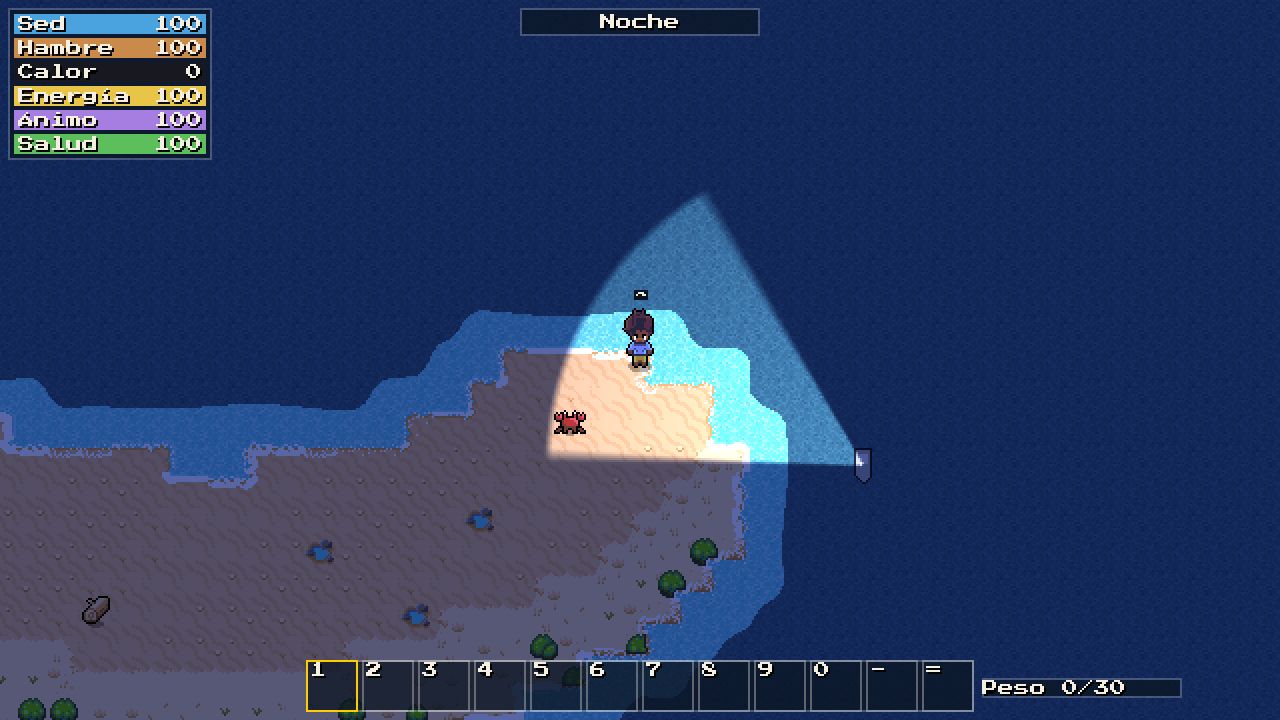
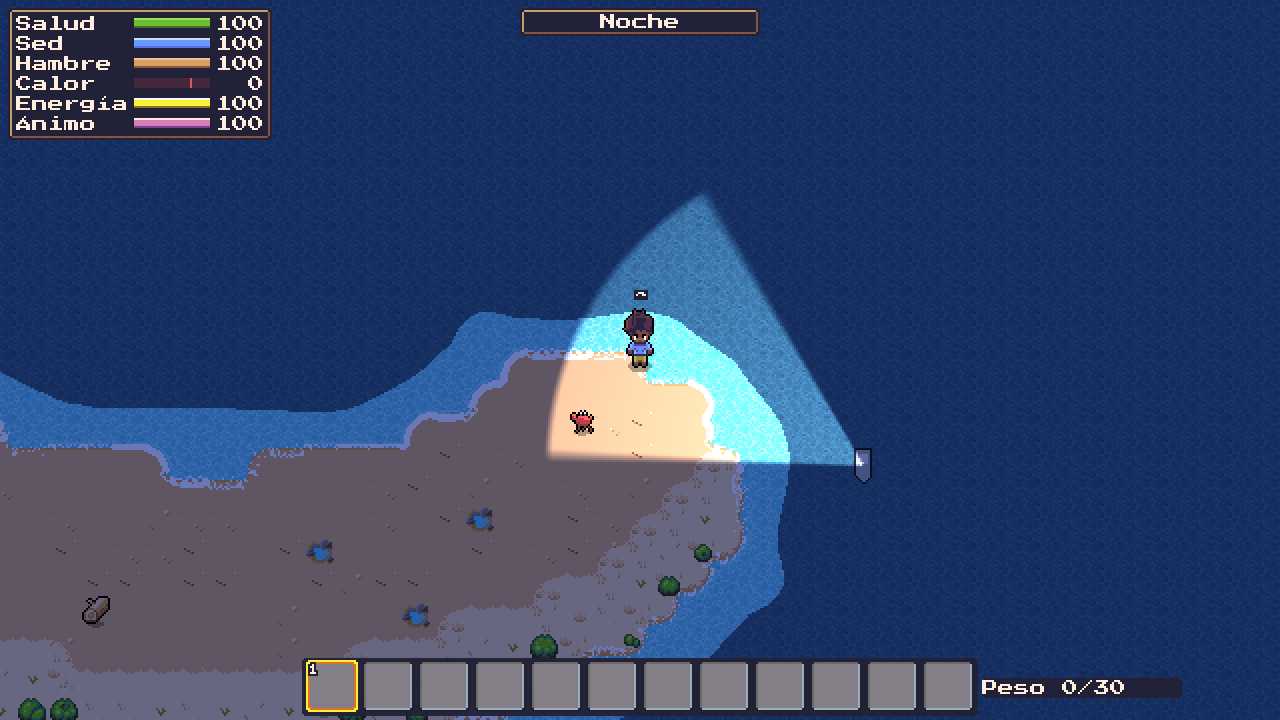
feat(art-mood-pass): a readable night and dusk (C33a)
Night was one flat multiply (luminance 0.41) and dusk turned the
shallows teal. day_cycle.tres: dusk (0.90, 0.70, 0.60) -> (0.95, 0.78,
0.74), night (0.35, 0.40, 0.65) -> (0.42, 0.47, 0.72). The pins are
properties, since the tints are provisional data (GAME_DESIGN 5): at dusk
the deep and shallows ramp bases keep blue above green, and the night
tint's luminance is 0.44-0.52 (now 0.477). The searchlight still reads on
the brighter night; its stealth capture is re-shot.

diff --git a/openspec/changes/art-mood-pass/tasks.md b/openspec/changes/art-mood-pass/tasks.md
@@ -21,7 +21,7 @@ A group that touches `tools/art/` also runs `python -m unittest` in `tools/art` 
 
 ## 0. Gate
 
-- [ ] 0.1 Wait until art-coast-pass (art wave 1) has merged into `main` and the coordinating session says go. Branch from `main`.
+- [x] 0.1 Wait until art-coast-pass (art wave 1) has merged into `main` and the coordinating session says go. Branch from `main`.
   - Re-read the merged `world_sea.gdshader`, `shore.gdshader`, `sea_mask.gd` and `SeaShaderChecks`.
   - Re-sync this change's MODIFIED "Scrolling sea" block with the archived art-pass spec. If art-coast-pass is not archived yet, sync with its delta.
 - [ ] 0.2 Groups 1 to 4 need only art-coast-pass. Group 5 waits until crossing-gameplay has merged. Before group 5, re-read its `crossing_hazards.gd`, `crossing.tscn` and how it exposes the vessel's lateral position.
@@ -32,12 +32,12 @@ A group that touches `tools/art/` also runs `python -m unittest` in `tools/art` 
 
 ## 1. C33a: a readable night and dusk (data)
 
-- [ ] 1.1 In `test_day_night_tint.gd`, write the property tests and see them fail on today's `day_cycle.tres`:
+- [x] 1.1 In `test_day_night_tint.gd`, write the property tests and see them fail on today's `day_cycle.tres`:
   - the dusk tint times the deep and the shallows ramp bases, read from `ArtTuning.sea_ramps`, gives blue above green;
   - the night tint's `get_luminance()` is between 0.44 and 0.52.
   The existing `test_the_tint_node_takes_night_times_calm` is the 1-player case and must stay green.
-- [ ] 1.2 Set `day_cycle.tres` phase 2 to about (0.95, 0.78, 0.74) and phase 3 to about (0.42, 0.47, 0.72). Verify that the new tests, `test_world_sky.gd`, `test_weather_content.gd` and `test_searchlight.gd` pass.
-- [ ] 1.3 Windowed 1-player capture: the solo sandbar at dusk and at night with the patrol beam. Compare with the review's `before/sandbar_dusk_west_shore.png` and `docs/guardacostas-stealth/sandbar_night_beam.png`. Tune the two tints if needed and record the values in design.md Build notes.
+- [x] 1.2 Set `day_cycle.tres` phase 2 to about (0.95, 0.78, 0.74) and phase 3 to about (0.42, 0.47, 0.72). Verify that the new tests, `test_world_sky.gd`, `test_weather_content.gd` and `test_searchlight.gd` pass.
+- [x] 1.3 Windowed 1-player capture: the solo sandbar at dusk and at night with the patrol beam. Compare with the review's `before/sandbar_dusk_west_shore.png` and `docs/guardacostas-stealth/sandbar_night_beam.png`. Tune the two tints if needed and record the values in design.md Build notes.
 
 ## 2. C33b: firelight
 

diff --git a/openspec/changes/art-mood-pass/design.md b/openspec/changes/art-mood-pass/design.md
@@ -268,3 +268,11 @@ Art and presentation data only. Rebuild the new sheets with `python -I tools/art
 ## Build notes
 
 Measured values (the final tints, light energy and flicker table, paces, the rain coverage, whether the unshaded flame overlay works in 4.7.2 Compatibility, the label's panel variation) are recorded here as the tasks ship.
+
+**Gate (0.1).** art-coast-pass merged into main (c0a1915, 2026-11-15); the coordinating session said go. It is not archived yet, and this change's MODIFIED "Scrolling sea" block was copied from its delta, which has not changed since; the block is re-synced when it archives.
+
+**C33a, a readable night and dusk (group 1, D1).**
+- `day_cycle.tres`: dusk (phase 2) (0.90, 0.70, 0.60) → (0.95, 0.78, 0.74); night (phase 3) (0.35, 0.40, 0.65) → (0.42, 0.47, 0.72). The design's values held on the captures, so no tuning was needed.
+- Tests (written first, failing on today's tints): `test_at_dusk_the_tinted_sea_stays_blue` (the deep and shallows ramp bases times dusk keep blue above green; today's shallows went teal, green 0.563 over blue 0.537) and `test_night_is_dark_but_readable` (the night tint's luminance 0.44–0.52; today 0.407, now 0.477). `test_the_tint_node_takes_night_times_calm` (1 player) and `test_world_sky`, `test_weather_content`, `test_searchlight` pass unchanged.
+- Captures: `docs/art-pass/mood/dusk_night_before_after_x2.png` (the sandbar's west shore from a windowed day capture times the dusk tint, top, and the night tint, bottom; before left, after right; the CanvasModulate is a plain multiply, so this is exact), and `docs/guardacostas-stealth/sandbar_night_beam.png` re-shot with `capture_patrol.tscn`: the searchlight still reads clearly against the brighter night. The day capture predates art-terrain-polish C7's darker shallows; with them, dusk stays blue too (the test reads whatever ramp is on main).
+
